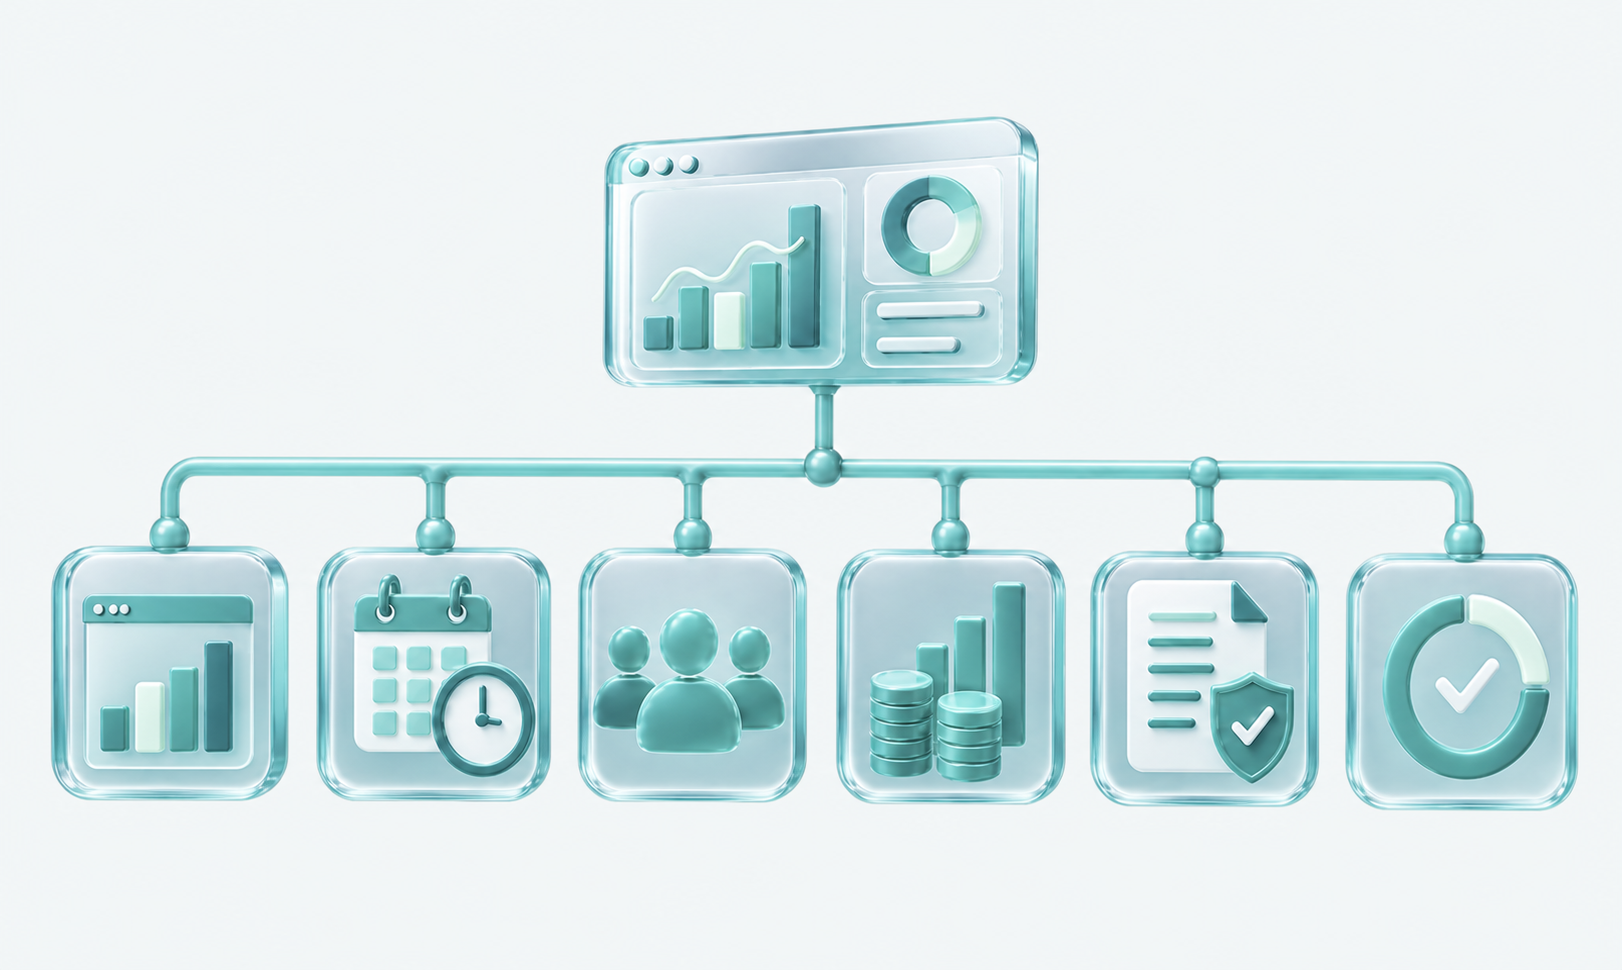
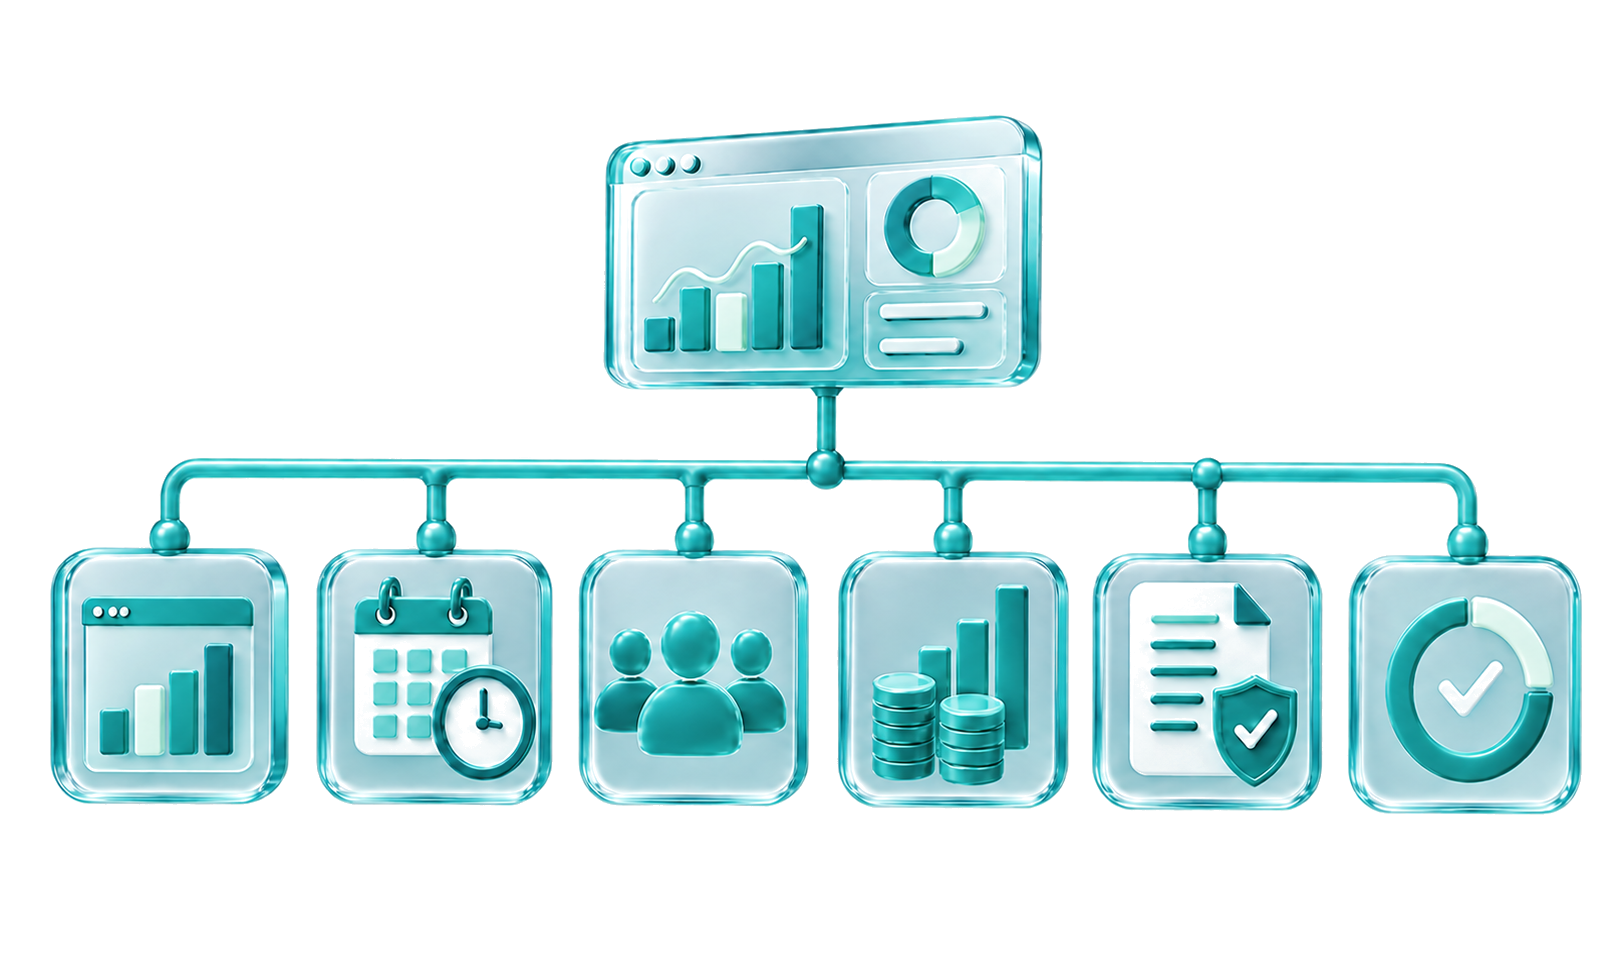
Refresh PMS diagram and quick menu

Changed region(s): [[0.0308, 0.1238, 0.9864, 0.8669], [0.5857, 0.0929, 0.6165, 0.1238]]

diff --git a/src/components/renewal/renewal.css b/src/components/renewal/renewal.css
@@ -1307,15 +1307,18 @@
 }
 .dw-quick {
   position: fixed;
-  right: 0;
+  right: 18px;
   top: 28%;
   z-index: 20;
   width: 100px;
-  background: white;
-  border: 1px solid #ccc;
+  background: rgba(255, 255, 255, 0.97);
+  border: 1px solid #d8e2e2;
+  border-radius: 14px;
+  overflow: visible;
   text-align: center;
   font-size: 12px;
-  box-shadow: 0 4px 15px #00000008;
+  box-shadow: 0 12px 35px rgba(19, 54, 62, 0.15);
+  animation: dw-quick-open 0.25s ease both;
 }
 .dw-quick > div > p {
   background: var(--navy);
@@ -1345,18 +1348,52 @@
 }
 .dw-quick-toggle {
   position: absolute;
-  left: -20px;
-  top: 0;
-  width: 20px;
-  height: 100%;
+  right: 0;
+  top: -52px;
+  width: 82px;
+  height: 42px;
+  display: flex;
+  align-items: center;
+  justify-content: center;
+  gap: 7px;
+  border-radius: 24px !important;
   background: var(--navy) !important;
   color: white !important;
-  padding: 0;
+  padding: 0 12px;
+  font-size: 11px !important;
+  font-weight: 700 !important;
+  box-shadow: 0 8px 22px rgba(20, 31, 49, 0.22);
+}
+.dw-quick-toggle span {
+  display: grid;
+  width: 20px;
+  height: 20px;
+  place-items: center;
+  border-radius: 50%;
+  background: var(--teal);
+  font-size: 16px;
+  line-height: 1;
 }
 .dw-quick-collapsed {
-  width: 0;
-  height: 72px;
+  width: 82px;
+  height: 42px;
   border: 0;
+  background: transparent;
+  box-shadow: none;
+  animation: none;
+}
+.dw-quick-collapsed .dw-quick-toggle {
+  top: 0;
+}
+@keyframes dw-quick-open {
+  from {
+    opacity: 0;
+    transform: translateY(-8px);
+  }
+  to {
+    opacity: 1;
+    transform: translateY(0);
+  }
 }
 .dw-top {
   position: fixed;
@@ -1429,7 +1466,7 @@
     height: 34px;
   }
   .dw-quick-collapsed {
-    width: 0;
+    width: 76px;
   }
   .dw-nav {
     gap: 18px;
@@ -1440,7 +1477,22 @@
 }
 @media (max-width: 1150px) {
   .dw-quick {
-    display: none;
+    top: auto;
+    right: 12px;
+    bottom: 175px;
+    width: 86px;
+  }
+  .dw-quick-collapsed {
+    width: 76px;
+    height: 40px;
+  }
+  .dw-quick-toggle {
+    width: 76px;
+    height: 40px;
+    top: -48px;
+  }
+  .dw-quick-collapsed .dw-quick-toggle {
+    top: 0;
   }
   .dw-renewal {
     font-size: 15px;

diff --git a/src/components/renewal/Layout.tsx b/src/components/renewal/Layout.tsx
@@ -210,7 +210,7 @@ function Footer({ onLegal }: { onLegal: (kind: LegalKind) => void }) {
 }
 
 function QuickMenu() {
-  const [collapsed, setCollapsed] = useState(false);
+  const [collapsed, setCollapsed] = useState(true);
   return (
     <aside
       className={`dw-quick ${collapsed ? "dw-quick-collapsed" : ""}`}
@@ -223,7 +223,8 @@ function QuickMenu() {
         aria-label={collapsed ? "빠른 상담 펼치기" : "빠른 상담 접기"}
         onClick={() => setCollapsed(!collapsed)}
       >
-        {collapsed ? "‹" : "›"}
+        <span>{collapsed ? "+" : "×"}</span>
+        {collapsed ? "QUICK" : "닫기"}
       </button>
       <div id="dw-quick-links" hidden={collapsed}>
         <p>아이원디지털웨어</p>
